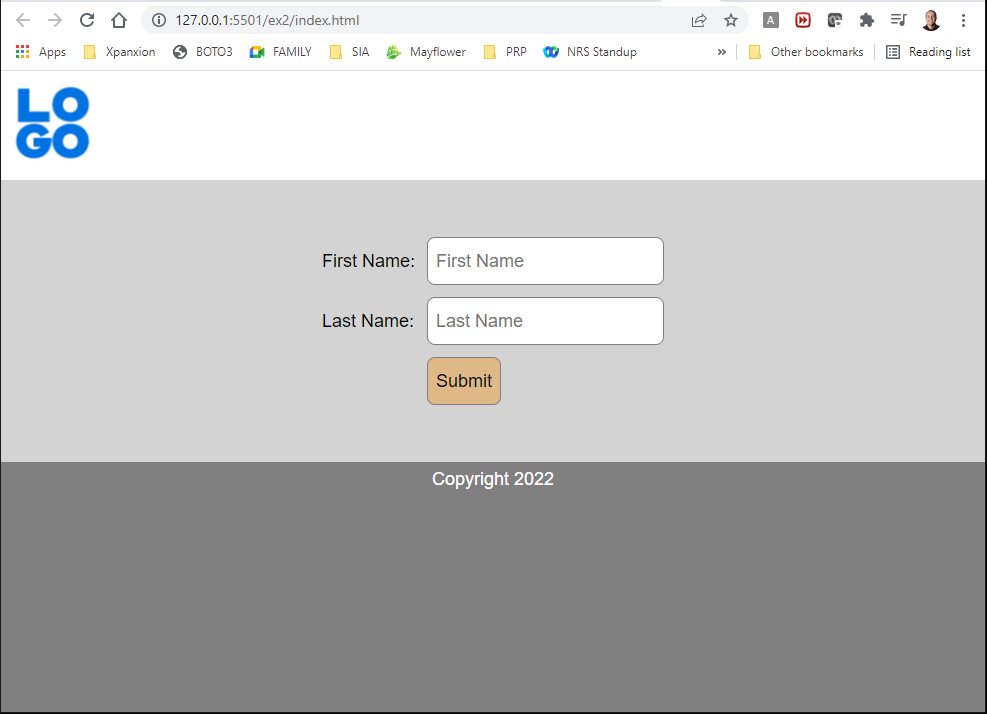
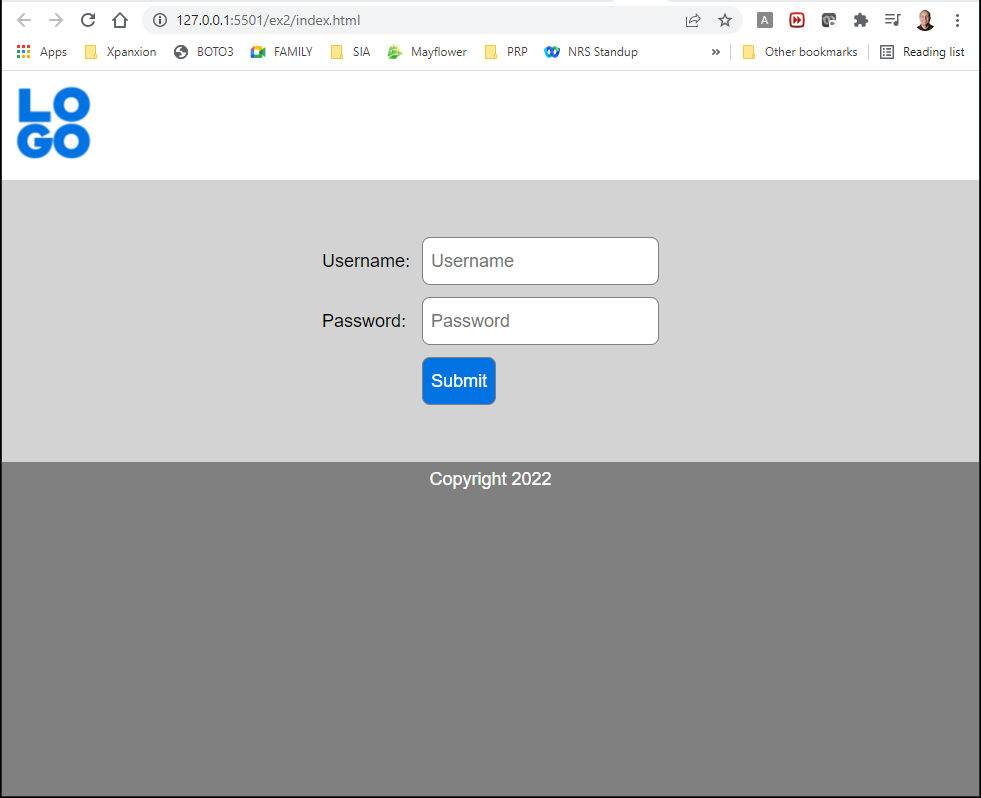
update

Changed region(s): [[0.0, 0.0, 1.0, 0.6779], [0.7034, 0.0, 0.9786, 0.0924], [0.0, 0.986, 0.0306, 1.0]]

diff --git a/assignments.md b/assignments.md
@@ -21,7 +21,7 @@ Colors used:
 - white
 - gray
 - lightgray
-- burlywood
+- #0072e1 (blue)
 
 The logo image is located in `images/logo.png`.
 
